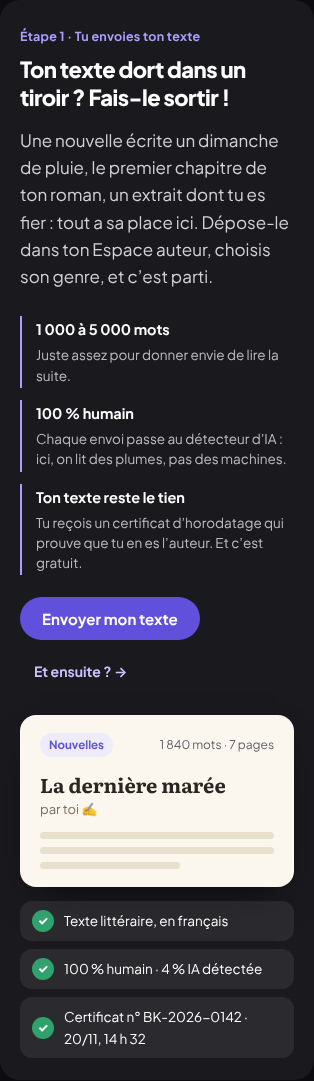
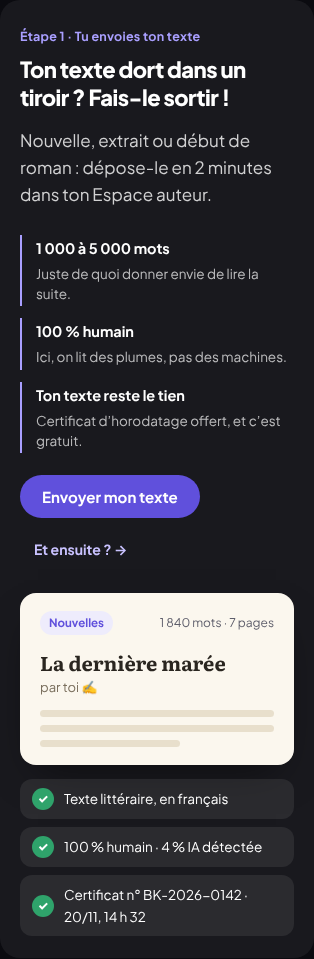
Auteurs : aperçus plus courts ; Comment ça marche : Vends tes livres n'est plus cliquable
Claude-Session: https://claude.ai/code/session_01EPa3evC84KLMU14gb8iTX3

Changed region(s): [[0.0573, 0.0302, 0.9459, 0.9677], [0.8599, 0.4838, 0.8885, 0.5141], [0.0573, 0.3629, 0.086, 0.3931]]

diff --git a/index.html b/index.html
@@ -824,7 +824,7 @@ footer nav{flex-wrap:wrap;gap:10px 24px}
         <p>Trois gestes simples et éco-responsables pour faire circuler les livres.</p>
       </div>
       <div class="steps">
-        <button class="step step-btn" type="button" data-sell><div class="num">1</div><div><h3>Vends tes livres <small>→</small></h3><p>Ceux qui dorment sur tes étagères.</p></div></button>
+        <div class="step"><div class="num">1</div><div><h3>Vends tes livres</h3><p>Ceux qui dorment sur tes étagères.</p></div></div>
         <svg class="arrow" width="28" height="14" viewBox="0 0 28 14" fill="none" stroke="currentColor" stroke-width="2" stroke-linecap="round" stroke-linejoin="round" aria-hidden="true"><path d="M1 7h25M20 1l6 6-6 6"/></svg>
         <div class="step"><div class="num">2</div><div><h3>Trouve ta prochaine lecture</h3><p>Par titre, auteur ou genre.</p></div></div>
         <svg class="arrow" width="28" height="14" viewBox="0 0 28 14" fill="none" stroke="currentColor" stroke-width="2" stroke-linecap="round" stroke-linejoin="round" aria-hidden="true"><path d="M1 7h25M20 1l6 6-6 6"/></svg>
@@ -853,12 +853,12 @@ footer nav{flex-wrap:wrap;gap:10px 24px}
           <div class="fp" id="fp1" role="region" aria-labelledby="fb1" hidden>
             <div class="fp-txt">
             <span class="fp-k">Étape 1 · Tu envoies ton texte</span>
-            <h3>Ton texte dort dans un tiroir ? Fais-le sortir&nbsp;!</h3>
-            <p>Une nouvelle écrite un dimanche de pluie, le premier chapitre de ton roman, un extrait dont tu es fier&nbsp;: tout a sa place ici. Dépose-le dans ton Espace auteur, choisis son genre, et c’est parti.</p>
+            <h3>Ton texte dort dans un tiroir&nbsp;? Fais-le sortir&nbsp;!</h3>
+            <p>Nouvelle, extrait ou début de roman&nbsp;: dépose-le en 2 minutes dans ton Espace auteur.</p>
             <ul class="fp-list">
-              <li><b>1&nbsp;000 à 5&nbsp;000 mots</b><span>Juste assez pour donner envie de lire la suite.</span></li>
-              <li><b>100&nbsp;% humain</b><span>Chaque envoi passe au détecteur d’IA&nbsp;: ici, on lit des plumes, pas des machines.</span></li>
-              <li><b>Ton texte reste le tien</b><span>Tu reçois un certificat d’horodatage qui prouve que tu en es l’auteur. Et c’est gratuit.</span></li>
+              <li><b>1&nbsp;000 à 5&nbsp;000 mots</b><span>Juste de quoi donner envie de lire la suite.</span></li>
+              <li><b>100&nbsp;% humain</b><span>Ici, on lit des plumes, pas des machines.</span></li>
+              <li><b>Ton texte reste le tien</b><span>Certificat d’horodatage offert, et c’est gratuit.</span></li>
             </ul>
             <div class="fp-foot"><button class="btn" type="button" data-auteur>Envoyer mon texte</button><button class="fp-next" type="button" data-fpgo="2">Et ensuite&nbsp;? →</button></div>
             </div>
@@ -880,11 +880,11 @@ footer nav{flex-wrap:wrap;gap:10px 24px}
             <div class="fp-txt">
             <span class="fp-k">Étape 2 · Il part en cadeau mystère</span>
             <h3>Ton texte part dans le Bookstery Drop</h3>
-            <p>Le Bookstery Drop, c’est notre petite distribution surprise&nbsp;: à chaque commande, des manuscrits mystères sont glissés dans les Bookster Bags. Le tien en fait partie&nbsp;! Le lecteur choisit seulement son genre préféré… et c’est peut-être ton texte qu’il ouvre.</p>
+            <p>À chaque commande, des manuscrits mystères se glissent dans les Bookster Bags. Le tien en fait partie&nbsp;!</p>
             <ul class="fp-list">
-              <li><b>La jauge du Drop</b><span>Plus un Bookster remplit sa jauge chez un même vendeur, plus il débloque de manuscrits mystères&nbsp;: 1 dès 10&nbsp;€, 2 dès 20&nbsp;€, 3 dès 35&nbsp;€.</span></li>
-              <li><b>Le bon lecteur pour ton texte</b><span>Ton manuscrit mystère va à ceux qui aiment déjà ton genre&nbsp;: polar chez les fans de polar, poésie chez les amoureux des vers.</span></li>
-              <li><b>Un QR code dans le colis</b><span>Il ouvre ton texte dans notre liseuse protégée&nbsp;: personne ne peut le copier.</span></li>
+              <li><b>La jauge du Drop</b><span>Plus le lecteur la remplit, plus il débloque de manuscrits mystères&nbsp;: 1 dès 10&nbsp;€, 2 dès 20&nbsp;€, 3 dès 35&nbsp;€.</span></li>
+              <li><b>Le bon lecteur</b><span>Ton texte va à ceux qui aiment déjà ton genre.</span></li>
+              <li><b>Un QR code dans le colis</b><span>Il ouvre ton texte dans la liseuse protégée.</span></li>
             </ul>
             <div class="fp-foot"><button class="fp-next" type="button" data-fpgo="1">← Avant</button><button class="fp-next" type="button" data-fpgo="3">Et après&nbsp;? →</button></div>
             </div>
@@ -904,12 +904,12 @@ footer nav{flex-wrap:wrap;gap:10px 24px}
           <div class="fp" id="fp3" role="region" aria-labelledby="fb3" hidden>
             <div class="fp-txt">
             <span class="fp-k">Étape 3 · Les Booksters te découvrent</span>
-            <h3>Des lecteurs qui ne te connaissaient pas… et qui en redemandent</h3>
-            <p>Ils te lisent tranquillement, en papier crème ou en mode nuit. Puis ils te le disent&nbsp;: une note, un petit mot, et parfois le début d’une belle histoire entre un auteur et ses lecteurs.</p>
+            <h3>Des lecteurs qui en redemandent</h3>
+            <p>Ils te lisent, puis te le disent&nbsp;: une note, un petit mot, parfois le début d’une belle histoire.</p>
             <ul class="fp-list">
-              <li><b>Leurs mots arrivent dans ta boîte mail</b><span>Chaque avis t’est envoyé directement. De quoi te donner l’envie d’écrire la suite.</span></li>
-              <li><b>Ils te suivent</b><span>Ton profil d’auteur rassemble tes lecteurs, tes notes et tes textes.</span></li>
-              <li><b>La promesse d’une édition</b><span>Les textes les plus plébiscités par la communauté sont édités dans nos librairies partenaires.</span></li>
+              <li><b>Leurs mots dans ta boîte mail</b><span>Chaque avis t’arrive directement.</span></li>
+              <li><b>Ils te suivent</b><span>Ton profil rassemble tes lecteurs et tes textes.</span></li>
+              <li><b>La promesse d’une édition</b><span>Les textes coups de cœur sont édités chez nos libraires partenaires.</span></li>
             </ul>
             <div class="fp-foot"><button class="btn" type="button" data-auteur>Je me lance</button><button class="fp-next" type="button" data-fpgo="2">← Avant</button></div>
             </div>
